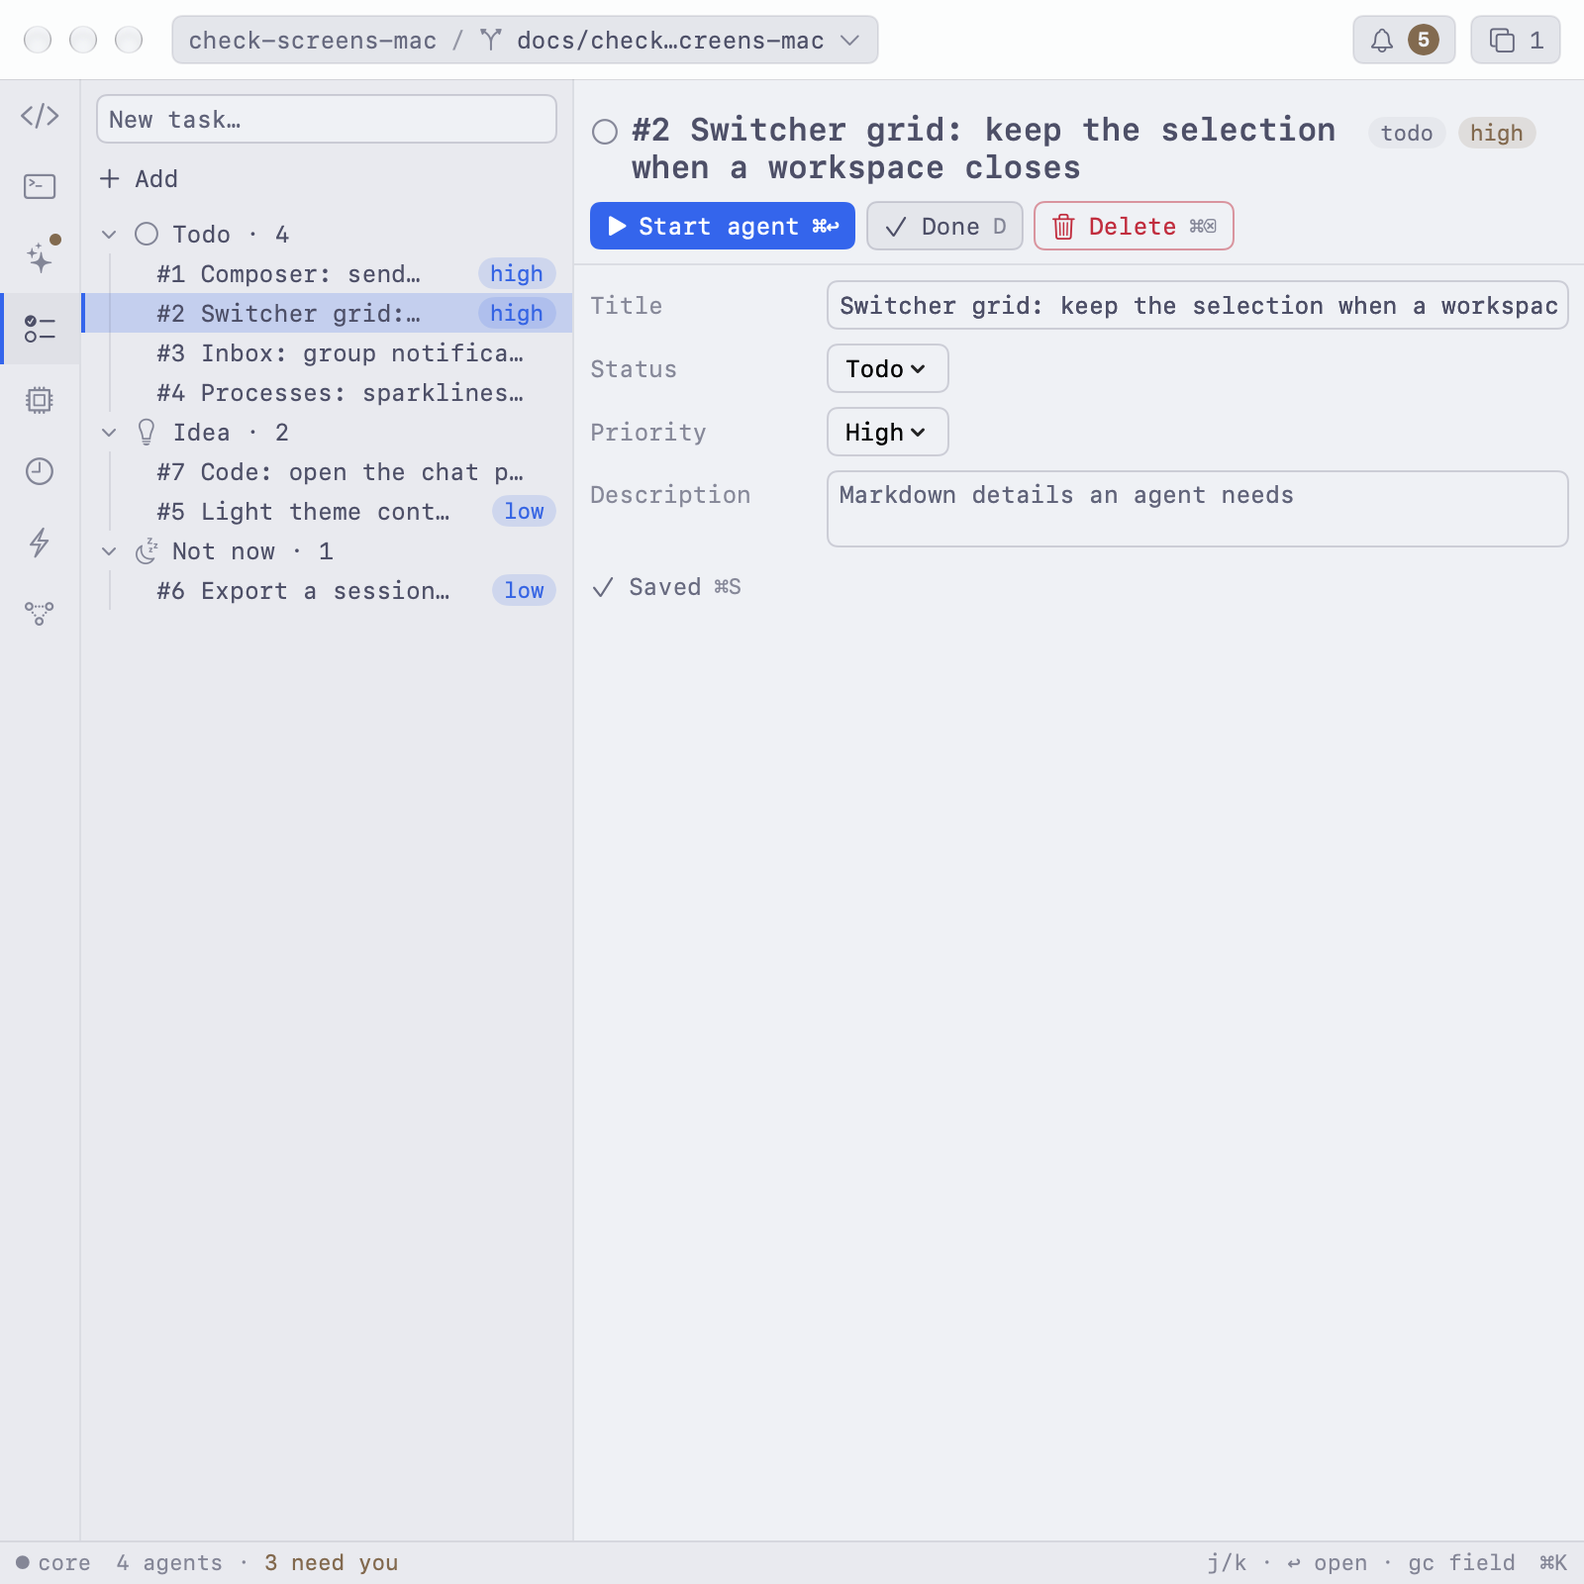
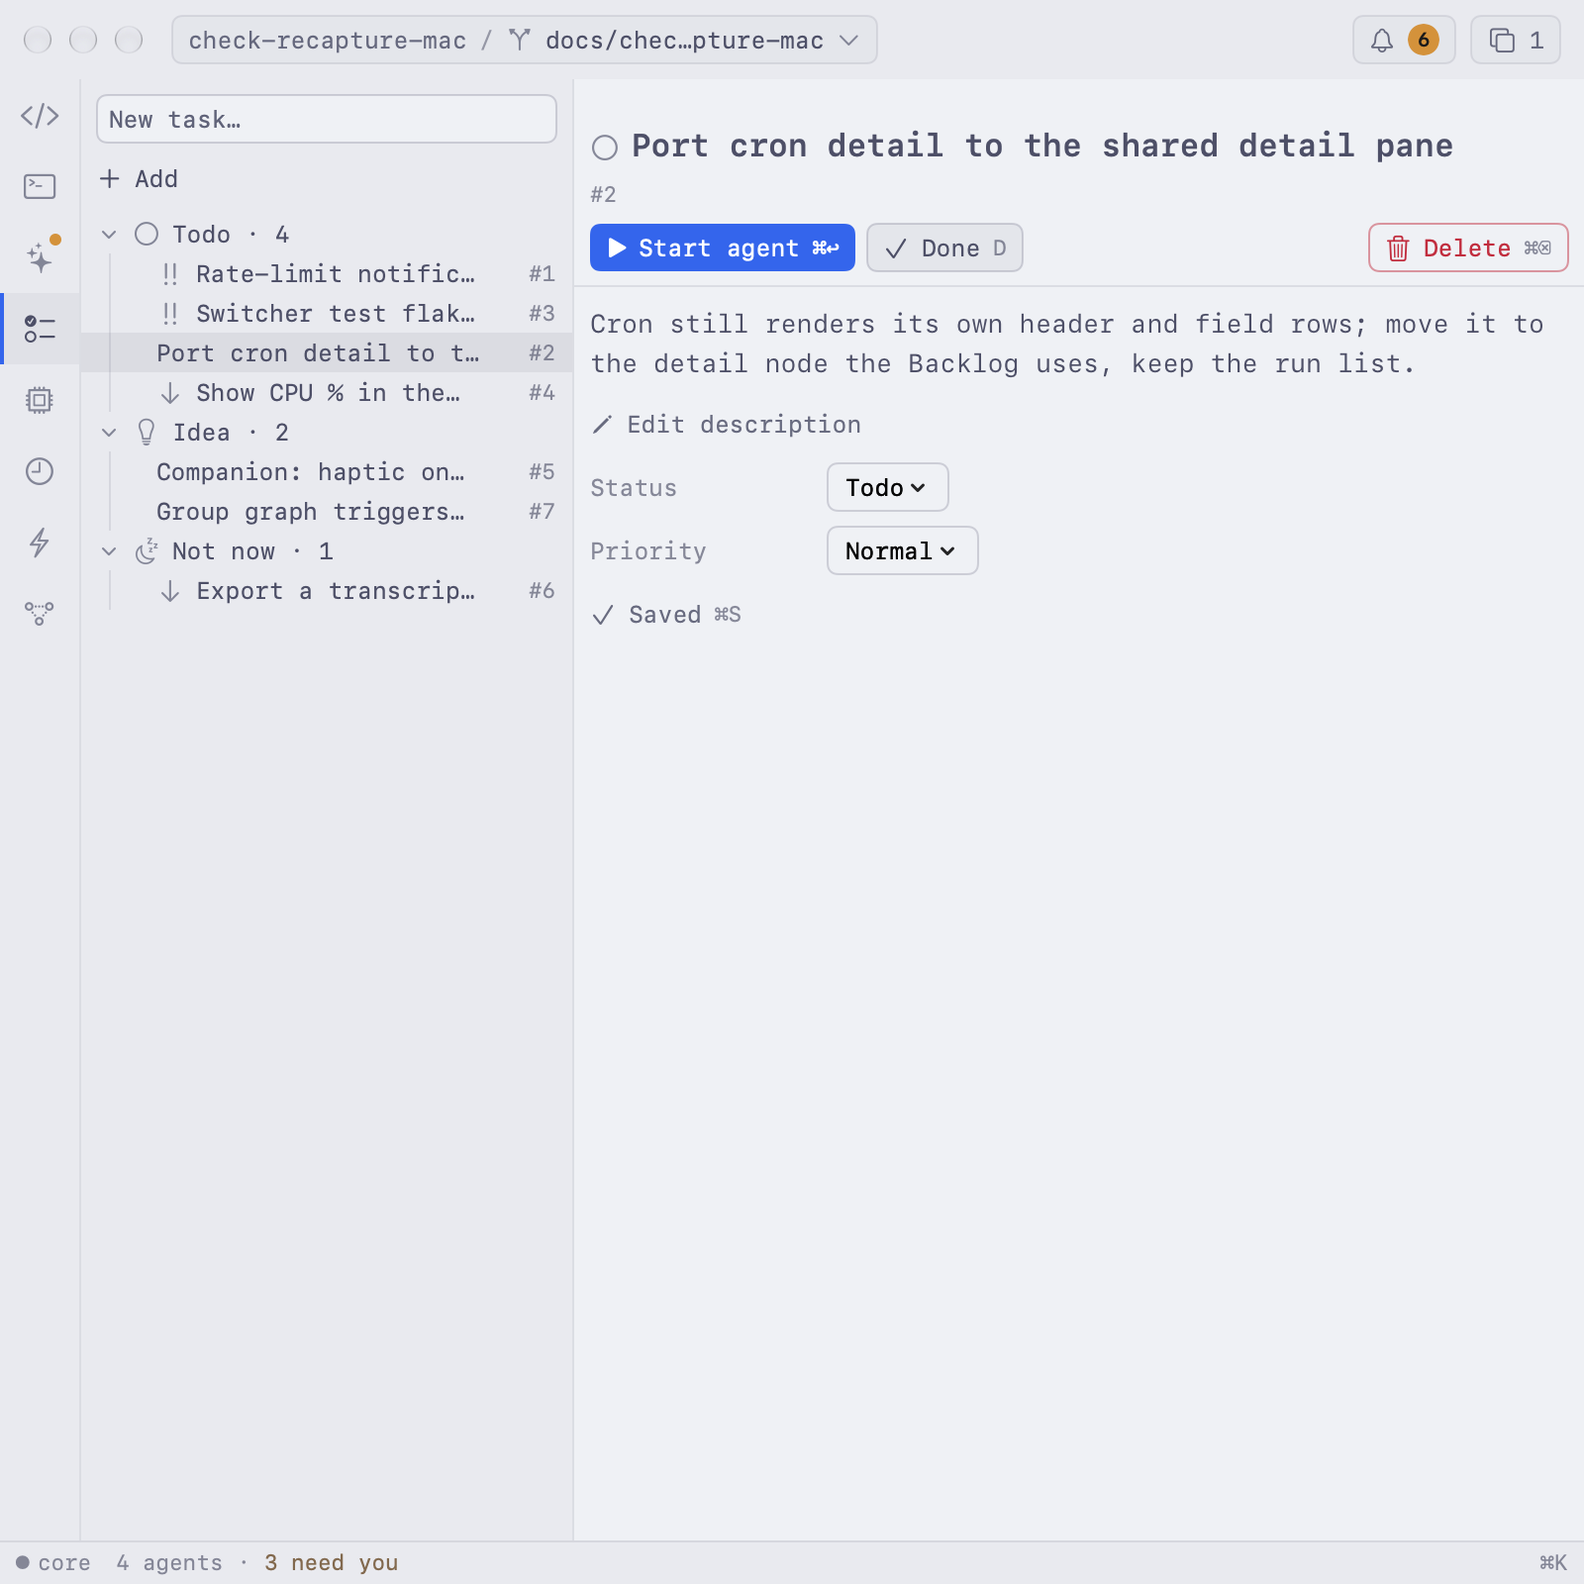
docs(design): re-capture the Mac app after the 1 Nov design-check fixes — 26 shots against the design/language boards (Mac-AlwaysAllow, Mac-ChatGraphStep, a failed session, a missed cron run, Processes with a row selected and the Latte Inbox added); the fake permission uses Claude's real labels so ⌥

diff --git a/design/check/mac/notes.md b/design/check/mac/notes.md
@@ -1,72 +1,115 @@
-# Mac app vs design boards — capture notes
+# Mac app vs design boards — re-capture after the 1 Nov fixes
 
-Captured 2026-11-01 from `b91c54f` (Debug build, `make app`), one test instance (`scripts/test-app.sh start`), `ui snapshot` at 2× scale. Capture only, nothing fixed.
+Captured 2026-11-01 from `46e46e47` (Debug build, `make app`), one test instance (`scripts/test-app.sh start`), `ui snapshot` at 2× scale. Capture and compare only, nothing fixed. The first capture (`b91c54f`) is in git history; the fix list is `design/check/fix-list.md`.
 
 ## Setup
 
-- Theme: no test-app switch exists. The app reads it from ghostty config; I wrote `theme = <name>` to the instance's overlay `state/ghostty.conf` and restarted only the app (core and seed data kept). `*-1280`: Kanagawa Wave plus `-AppleInterfaceStyle Dark`. `*-640` and the extras marked Latte: Catppuccin Latte with the system's light appearance.
-- Agents: `plugins/agents/internal/fakeagent` with `fakeagent-script.json` (steps keyed by prompt via `match`; the diff path is absolute to this worktree). `cm agent spawn` for "Bump ghostty to 1.2", "Migrate agents store to sqlite", "Port cron to the detail pane", "Fix flaky switcher test", "Rate-limit notifications per workspace", then `graphs.run review-loop` (copy of `plugins/graphs/testdata`, input "Rate-limit notifications per workspace"; Coder gets the same script and waits on permission).
-- Seed: 7 backlog tasks (#1–#4 todo, #5/#7 idea, #6 not_now, priorities high/normal/low), 3 cron jobs (one paused), 2 triggers plus the 3 graph edges, 2 terminals, 2 `cm notify`.
-- 640 boards: `--size 640x800` gets clamped to contentMinSize, so every `*-640.png` is really **800 pt (1600×1600 px)**. That's the same as `design/brief/screens/02-agents-narrow-640.png`. At 800 the sidebar stays and the 640 narrow layout (no sidebar, breadcrumb header) never shows.
-- Agents-Mate-1280: **skipped**. Mate is only `GhosttyConfigReader`'s fallback when ghostty gives no palette, and ghostty always supplies its default one, so it can't be selected.
-- No traffic-light colours anywhere: the test window is never key.
+- Theme: no test-app switch exists. Write `theme = <name>` to the instance's `state/ghostty.conf`, kill only the app pid and relaunch it with the `open -n -g -j --env …` line of `scripts/test-app.sh start`, then `cm workspace open <root>` again; core and seed data survive. Check that the pid changed after every relaunch.
+- Appearance: this Mac's system appearance is **Dark**. `*-1280`: Kanagawa Wave with `-AppleInterfaceStyle Dark`. `*-640`: Catppuccin Latte with `-NSRequiresAquaSystemAppearance YES` (a light Mac). `x-Title-Dot-1280`: Kanagawa with the system as is. The light-system/dark-theme case that broke the Inbox before was re-checked with Kanagawa + `-NSRequiresAquaSystemAppearance YES`; Latte + dark system with `x-Inbox-popover-Latte`.
+- Agents: `plugins/agents/internal/fakeagent` with `fakeagent-script.json` (steps keyed by prompt via `match`; diff paths are absolute to this worktree). The `go test` permission now carries Claude's real option labels ("Yes, and don't ask again for go test commands", plus "No, and don't ask again"), so the ⌥2 popover shows the rule `Bash(go test:*)` and Always reject lands in •••. `cm agent spawn` for Bump, Migrate (fails, retries once, fails again), Port cron (running), Fix flaky (permission), then `graphs.run review-loop` (copy of `plugins/graphs/testdata`), then Rate-limit. One more idle "New session" comes from New chat in the Code panel (visible in the later shots).
+- Seed: 7 backlog tasks, 3 cron jobs (one paused), 2 triggers + the 3 graph edges, 2 terminals, 2 `cm notify`.
+- Missed cron run: a 2-min job with `missed: skip`, the cron plugin frozen with `kill -STOP` past the 1-min grace, then `kill -CONT` → one skipped/missed run (`x-Cron-Missed-1280`). The nightly job can't be made to miss without waiting for 03:00.
+- 640 boards: `--size 640x800` is clamped to contentMinSize, so every `*-640.png` is **800 pt (1600×1600 px)** (§4: the Mac minimum width is 800 pt).
+- Popovers, sheets and Settings are snapshotted as their own window. The test window is never key: no traffic-light colours, no blue default button, switches/accents grey in Settings.
+- Never `screencapture`; `test-app.sh stop` deletes `/tmp/clubmate-test-<name>`.
 
 ## Files
 
 | File | Size px | Theme | Shows |
 |---|---|---|---|
-| Agents-1280 | 2560×1600 | Kanagawa | Rate-limit session, action group + edit card expanded (`ui present card:…/tool/e1`), permission |
+| Agents-1280 | 2560×1600 | Kanagawa | Rate-limit session, action group + edit card expanded (`ui present card:…/tool/e1`), permission card |
 | Agents-640 | 1600×1600 | Latte | same at 800 pt |
-| Code-1280 | 2560×1600 | Kanagawa | `internal/notify/notify.go:40` in nvim, chat panel (Review loop · Reviewer) |
-| Code-640 | 1600×1600 | Latte | same, chat stacked under the editor |
+| Mac-AlwaysAllow | 892×374 | Kanagawa | ⌥2 on the docked permission: the confirm popover window only (⎋ closed it, nothing stored) |
+| x-Failed-Session-1280 | 2560×1600 | Kanagawa | Migrate session after its failed retry |
+| Code-1280 | 2560×1600 | Kanagawa | `internal/notify/notify.go:40` in nvim, chat panel on a new chat |
+| Code-640 | 1600×1600 | Latte | same, chat under the editor |
+| Mac-ChatGraphStep | 760×1476 | Kanagawa | chat panel cropped from the window, Review loop · Reviewer picked by hand (`codeSelect`) |
 | Backlog-1280 / -640 | 2560×1600 / 1600×1600 | Kanagawa / Latte | task #2 selected |
 | Cron-1280 | 2560×1600 | Kanagawa | Nightly dependency audit |
+| x-Cron-Missed-1280 | 2560×1600 | Kanagawa, light system | Poll CI for main with one missed run |
 | Triggers-640 | 1600×1600 | Latte | graph edge "Review loop: Coder done → Reviewer" |
+| x-Triggers-1280 | 2560×1600 | Kanagawa | same at full width |
 | Graphs-1280 / -640 | 2560×1600 / 1600×1600 | Kanagawa / Latte | Review loop run, Coder waiting |
-| Processes-1280 / -640 | 2560×1600 / 1600×1600 | Kanagawa / Latte | All, no row selected |
-| Mac-Settings-Remote | 920×1296 | system light (Settings ignores the theme) | `--settings-tab remote --remote-fixture` |
-| x-Title-Dot-1280 | 2560×1600 | Kanagawa | blue identity dot in the title pill (`--remote-fixture`) |
-| x-Triggers-1280 | 2560×1600 | Kanagawa | Triggers at full width |
+| Processes-1280 | 2560×1600 | Kanagawa | All, no row selected |
+| x-Processes-Selected-1280 | 2560×1600 | Kanagawa | Terminal 2's zsh selected, action bar |
+| Processes-640 | 1600×1600 | Latte | All, Terminal 2's zsh selected |
+| Mac-Settings-Remote | 920×1296 | system light (Settings ignores the theme) | `--settings-tab remote --remote-fixture` + `ui present settings` |
+| x-Title-Dot-1280 | 2560×1600 | Kanagawa, dark system | blue identity dot in the title pill (`--remote-fixture`) |
 | x-Palette, x-Switcher | 2560×1600 | Kanagawa | `ui present palette / switcher` |
-| x-Worktree-Picker, x-Inbox-popover | 772×764, 812×1012 | Kanagawa | the popover window only |
-| x-Approval-Sheet | 1184×1100 | system light | `ui present approval` (fixture text) |
+| x-Worktree-Picker | 772×764 | Kanagawa | popover window only |
+| x-Inbox-popover | 812×1012 | Kanagawa | popover window only (identical with a forced light system) |
+| x-Inbox-popover-Latte | 812×1012 | Latte, dark system | popover window only |
+| x-Approval-Sheet | 1184×1096 | system light | `ui present approval` (fixture text) |
 
-## Looked broken / differs from the boards
+## What still differs, per board
 
-- **Inbox popover**: a light system material with Kanagawa's light text, so it's nearly unreadable. There's also a rainbow rim, probably a snapshot artifact of the popover material. This happens whenever the system is light and the ghostty theme is dark.
-- **Title bar** follows the system appearance and not the theme. It stays light for a while after launch even with `-AppleInterfaceStyle Dark` (x-Title-Dot is light, the other 1280 shots are dark).
-- **Settings → Remote** is a native grouped Form in system light. The board is themed dark with 5 tabs (General/Appearance/Agents/Remote/Shortcuts); the app has 3 (General/Plugins/Remote). Name is read-only text, not a field. Both toggles look off/grey.
-- **Agents**:
-  - No "Agents" header with search/+; there's a "+ New · New in worktree…" row instead.
-  - Row details are free text ("Coder need…", "Waiting for per…", "4 min ago"), not `turn 1/12 / waiting / idle`.
-  - The session header has no subtitle (Claude · branch · mode) and no "waiting for you" chip.
-  - The edit diff is a raw unified diff (`---/+++` headers, no line-number gutter), with Open in nvim/Diff buttons below it, not in a file header with ⌘O/⌘D.
-  - The permission card is one line ("✋ Claude wants to run …") with no command box and no ⌥2 on Always allow.
-  - The failed session (fakeagent `fail`) shows as done ✓, not failed ✗ (`agents.sessions` says `done`).
-  - The second worktree group (`main`) wasn't reproduced: all sessions are in one worktree.
-- **Backlog**:
-  - "New task…" field plus a separate "+ Add" row, no ⌘N.
-  - Priority is a right-side "high" badge, not a leading "!!".
-  - The detail has an extra Title field, todo/high chips next to the title, and "Saved ⌘S" under the form.
-  - The description box is small; the board's is big.
-  - No priority counts.
-- **Cron**:
-  - No time on the right of the selected row.
-  - No active/missed chips, no Edit/Duplicate, no Worktree row, no "When missed" picker.
-  - "Does" shows raw `agents.new`, not "Start an agent · Claude · Default".
-  - Runs is plain text, not the dashed empty box.
-  - I couldn't seed a missed run.
-- **Triggers**:
-  - "When" shows raw `agents.turn {json}`, not "an agent turn finishes / status done / session Review loop · Coder".
-  - "Does" dumps the whole generated agents.prompt text.
-  - No "created by graph" line, no Run now/Open graph.
-- **Graphs**:
-  - The sidebar has no Runs/Definitions groups (one run row; `release` was not run).
-  - No node diagram, no Edit definition.
-  - Remove is a button, not in an overflow menu.
-- **Processes**:
-  - The header (title / counts / filter row) is stacked, not one line.
-  - The sidebar has no CPU % column.
-  - The column reads "LAST MIN", not "LAST 10 MIN".
-  - An nvim/gopls group shows up.
-  - No selection footer (no row selected).
+"Seed" = data or set-up only. "Gap" = a real difference; the fix-list item is named, or "not in the fix list".
+
+The `*-640` boards (except Agents-640) draw the 640 pt narrow layout: no sidebar, a "‹ Section / group · n of m" breadcrumb with ↑↓, compact headers. The build stops at 800 pt (§4), so the 800 pt shots keep the sidebar; that difference is not repeated below. Code-640's board still shows the chat on Review loop · Reviewer with a transcript, which decision 4 overrules (the shot shows a new chat, as Code-1280's board now does).
+
+**Agents-1280 / -640** — now match: status map (failed ✕ danger, running accent ▶, waiting amber), session header (status, agent, branch, mode, "waiting for you" badge), one Stop in the header, permission card (title, mono box, "Claude says:", ⌥1–3, ••• for Always reject), diff card (file bar, hunk header, line numbers, no `---/+++`), "Thought for 1 s", filled filter chip, Latte warning fills.
+- Seed: the second worktree group (`main`) isn't reproduced; the hunk starts at line 1 because the fake diff has no file context.
+- Gap: the failed row has no "exit 1" on the right (P0 status map: "exit 1" / "Stopped · error").
+- Gap: the Review loop row says "Coder need…" instead of "turn 1/12"; the Bump row has no age (not in the fix list).
+- Gap: Open in nvim has no ⌘O; Read/Search rows have no "0.1s" / "4 hits" (P1 diff card names ⌘O; the hits are not in the fix list).
+- Board vs list: the composer reads "Queue a message" while the permission waits; the board reads "Reply, / for commands…". The build follows P2 composer placeholder: "Answer Claude…" is only for a pending question/elicitation (`asked` in `plugins/agents/view.go`), a pending permission is a running turn, so busy copy. The board predates the list.
+- Gap: the status bar has no "⌥1 allow · ⌥2 always · ⌥3 reject · ⎋ stop" hints (not in the fix list).
+
+**Mac-AlwaysAllow** — matches: title, rule `Bash(go test:*)`, scope sentence, "Press ⌥2 again to confirm.", Cancel ⎋ / Always allow ⌥2; ⎋ closed it and the session stayed waiting.
+- Seed: workspace "check-recapture-mac" instead of "shop".
+- Gap: Cancel is not drawn as the default (board: bold Cancel); can't tell from a non-key window whether it is (decision 2).
+
+**x-Failed-Session-1280** — ✕ in the sidebar and the header.
+- Gap: the error line reads "acp error -32603: exit status 1" (raw ACP code), and the header has no "Stopped · error" (P0 status map, names over ids).
+
+**Code-1280 / -640** — the panel opens on the last regular session, never on a graph step; New chat works; suggestions have no ⌥ keys (decision 5 allows no keys).
+- Gap: the title reads "New session", the board "New chat"; the empty state is still "Claude is idle / Ask anything, @ to attach a file…", the board "New chat in ‹branch› / It sees the file and selection you're on." (K1 Code row; not in the fix list §3).
+- Gap: context shows one `notify.go` chip, the board `notify.go:40` + `Limiter` (not in the fix list).
+- Gap: the app status bar shows "⌘B chat · ⌘↩ send", the board "⌘J chat · ⌘L focus chat" (P1 Code).
+
+**Mac-ChatGraphStep** — matches the structure: "Reviewer is a step of Review loop", step states (Coder waiting for you in amber, Reviewer not started), Open in Graphs, New chat.
+- Gap: no composer at all; the board keeps a disabled one ("Reviewer runs as part of Review loop") (decision 4).
+- Gap: buttons have no ⌘8 / ⌘N; the note is generic ("when the graph reaches it" vs "when Coder finishes its turn, and gets Coder's result"); no "runs after Coder"; the header glyph is a plain circle, not the graph icon; the content sits at the bottom of the panel, the board centres it (decision 4).
+
+**Backlog-1280 / -640** — now match: title once, no header badges, `!!` / `↓` glyphs, `#n` at the right, Delete at the far end, "✓ Saved ⌘S" (§4).
+- Gap: "New task…" field plus a separate "+ Add" row, no ⌘N; no "Backlog" title/search (not in the fix list).
+- Gap: `#2` sits under the title, the board puts it before; the description is rendered text with "Edit description", the board an open box; Status/Priority pickers have no glyphs; no priority counts (not in the fix list).
+
+**Cron-1280 / x-Cron-Missed-1280** — now match: "active" and "missed 1 run" badges, Missed (warning ink, Run it now) split from When missed, Next run with "in 4 h", Owner "nobody — results go to the inbox", Worktree row, Does in words with the prompt in a card + Show as JSON, Duplicate, Delete at the far end, times on active rows.
+- Gap: no Edit E (P1 Cron).
+- Gap: the paused row has no "paused" on the right (P1 Cron: "Every list row shows its next time, or paused").
+- Gap: Runs is plain text, not the dashed box with Run now; Does has no mode ("Default") and no icon (not in the fix list).
+- Gap: a job running a plain command reads "Run the command backlog.list" (P2 names over ids).
+
+**Triggers-640 / x-Triggers-1280** — now match: graph triggers grouped "from graph Review loop · 3", "created by graph Review loop", Owner = graph, Run now ⌘R, Open graph G, no Delete in the bar (•••), When and Does in words, prompt clamped with Show all, Show as JSON.
+- Seed: the Does text reads "Send a prompt to Review loop · Reviewer" because the reviewer session already exists.
+- Gap: When is one line, the board splits it (event, then status chip and session rows); Runs is plain text, not the dashed box; no breadcrumb header at 800 pt (not in the fix list).
+
+**Graphs-1280 / -640** — now match: no Remove in the bar while running, waiting in amber with the warning glyph in the list.
+- Tracked (§4): no Runs/Definitions groups, no node diagram, no Edit definition.
+- Gap: no ••• in the bar; the list row shows "Nov 1 22:30 · 1…" instead of an age; the node table has no state glyphs; at 800 pt the Session column is dropped (not in the fix list).
+
+**Processes-1280 / -640 / x-Processes-Selected-1280** — now match: owner icon left + CPU % right, commands truncated in the middle, action bar with Copy command / Reveal ⇧⌘R / Kill ⇧K (§5.7).
+- Seed: an nvim/gopls group, one fakeagent process for all sessions.
+- Gap: title, counts and filter are stacked rows, the board has one line; "LAST MIN", not "LAST 10 MIN" (P2 Processes; K1 allows "keep 1 min and say so").
+- Gap: the selection footer stacks pid/command over "started …" and the actions follow it, not at the right; Copy command has no ⌘C; at 800 pt TIME and LAST MIN columns drop and "MEM · avg" wraps to three lines (not in the fix list).
+
+**Mac-Settings-Remote** — matches (system form, read-only name per §5.3).
+- Gap: the iPhone preview row is still mono; the board uses SF (K1 Settings row, class a; not in the fix list §3).
+
+**x-Title-Dot-1280** — fixed: the title bar keeps Kanagawa's surface with the dot on, under a dark and a light system.
+
+**x-Inbox-popover / -Latte** — fixed: the popover follows the theme's appearance (dark under Kanagawa even on a light system, light under Latte on a dark system); titles "Permission · …", session subtitle, age on every row, waiting items oldest first.
+- Gap: the coloured rim is still in every capture; whether it is ours is still open (§5.4).
+- Seed/gap: History repeats the waiting items (the same notifications) — not in the fix list.
+
+**x-Approval-Sheet** — now matches: question, workspace and command on top; repo, sha256, size, trusts and worktree below in smaller mono; the fixture's two look-alike `teardown.sh` lines render as escaped body text, not as headers, so "2 entries" matches the two real headers (`setup.sh`, `worktree-include`); Deny is the ⏎ button in code (`InputViews.swift`).
+- Gap: Allow is a red-tinted button on the left; nothing marks Deny as the default in a non-key capture (P0 approval sheet; checked in code only).
+
+**x-Worktree-Picker**
+- Gap: the detached worktree is a bare "03a9ff5f" (P2 names over ids: "detached · 03a9ff5f").
+- Gap: "New Worktree…", "Remove Worktree…" in Title Case (P2 case); the title still says "worktree or branch" with only worktrees listed (K1, not in the fix list).
+
+**x-Palette, x-Switcher**
+- Gap: the palette lists commands in Title Case ("New Backlog Task") with their ids on the right (`backlog.new`, `editor-nvim.reveal`) (P2 case, names over ids).
+- Switcher: nothing new.
